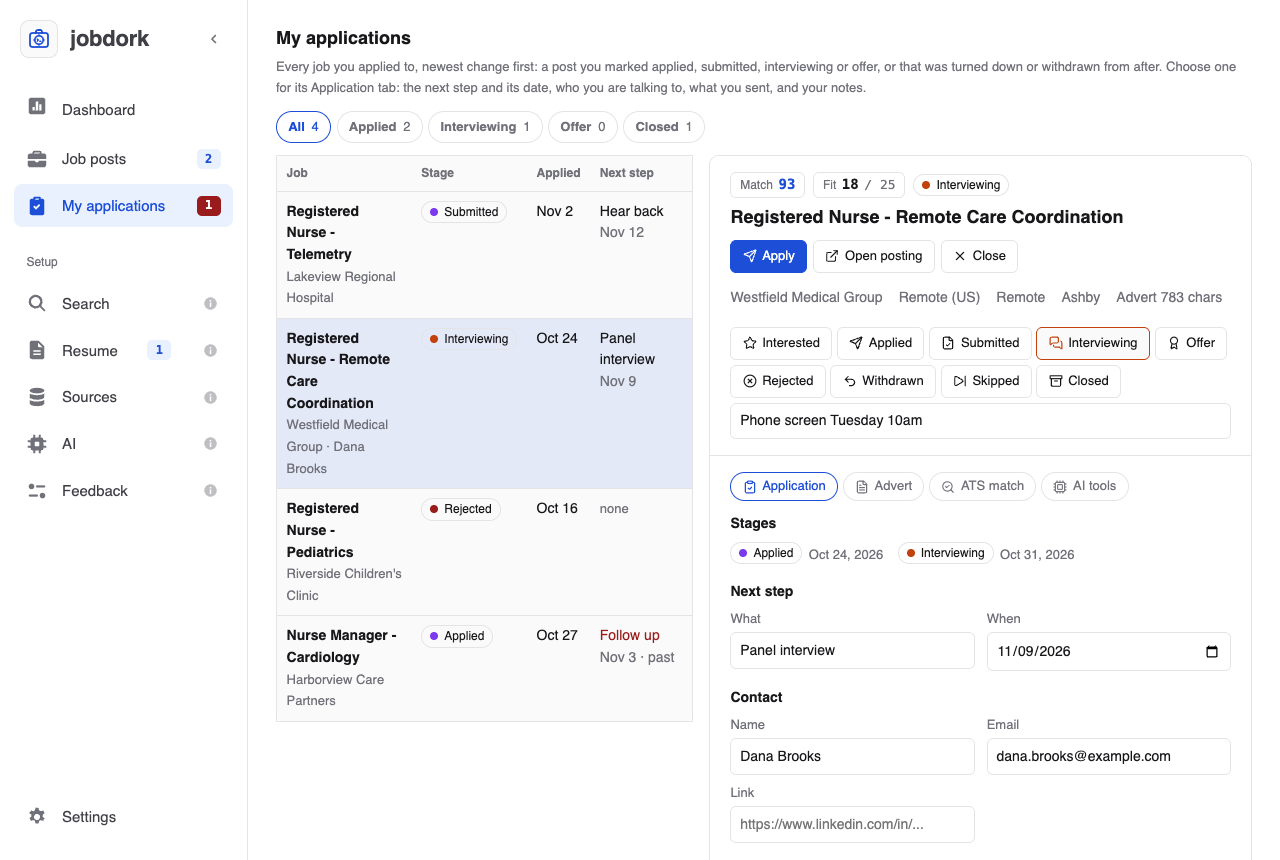
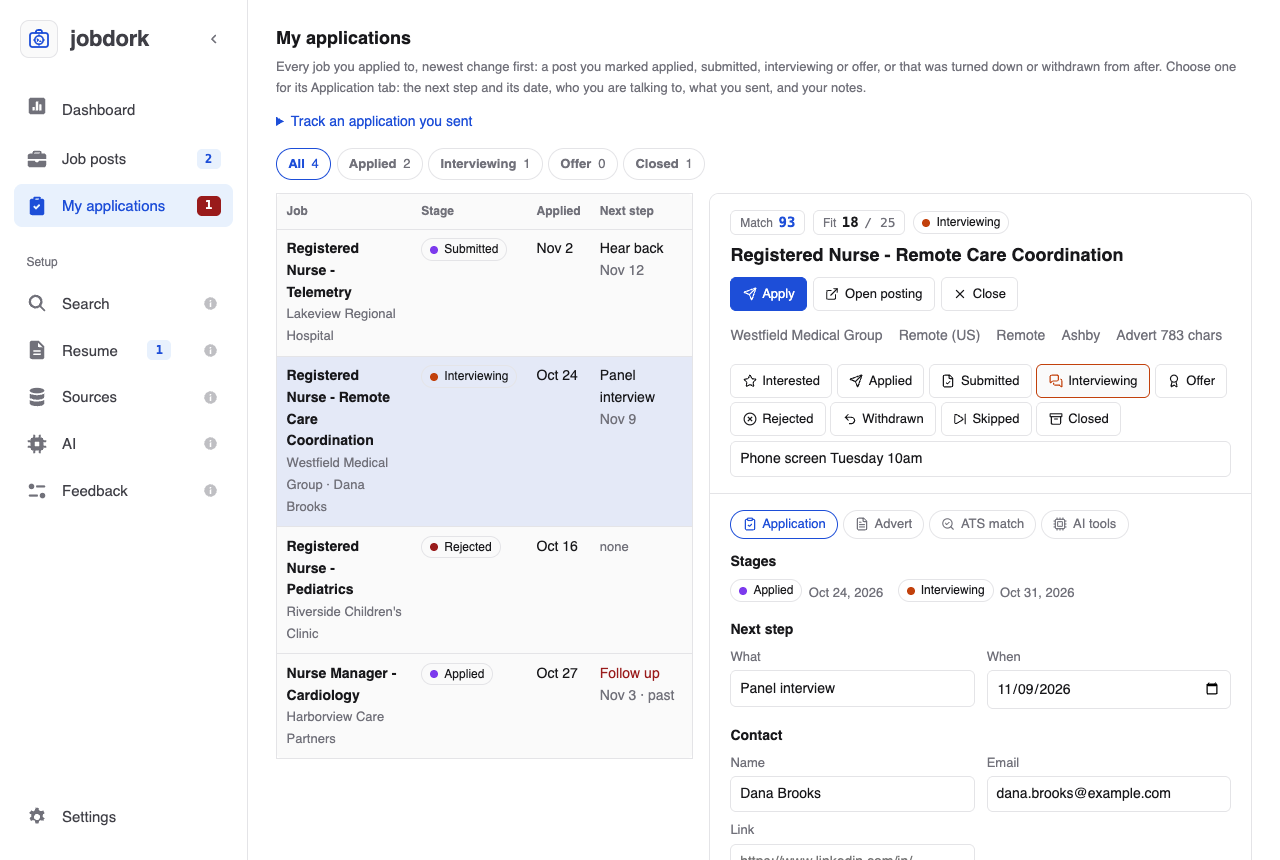
feat: track an application you sent, from its link (see docs/changes/track-from-link.md)

diff --git a/jobdork/data/dashboard.html b/jobdork/data/dashboard.html
@@ -1043,6 +1043,32 @@ main > #view-setup.welcome{max-width:46rem;margin-top:3.5rem}
       you marked applied, submitted, interviewing or offer, or that was turned down or withdrawn
       from after. Choose one for its Application tab: the next step and its date, who you are
       talking to, what you sent, and your notes.</p>
+    <details class="paste" id="track">
+      <summary>Track an application you sent</summary>
+      <p class="hint">Applied somewhere jobdork did not find? Give the job post's link: it is
+        read into Job posts and listed here as applied, dated the day you applied.</p>
+      <form id="track-form">
+        <div class="bar">
+          <input id="tr-url" type="url" required placeholder="The job post's link" aria-label="The job post's link"
+            style="flex:1;min-width:16rem">
+          <label class="hint" for="tr-date">Applied on</label>
+          <input id="tr-date" type="date" aria-label="The day you applied">
+          <button data-icon="clipboard-check" class="act primary" type="submit" id="btn-track">Track it</button>
+        </div>
+        <div id="tr-more" hidden>
+          <p class="hint">jobdork could not read that page. Give the job title and employer to track
+            it anyway; paste the advert too and it is scored like any other post.</p>
+          <div class="picker">
+            <label>Job title<input id="tr-title"></label>
+            <label>Employer<input id="tr-company"></label>
+            <label>Place<input id="tr-place" placeholder="e.g. Austin, TX, or Remote"></label>
+          </div>
+          <label>The advert (optional)<textarea id="tr-text" rows="6" style="width:100%"
+            placeholder="Everything the post says: duties, requirements, pay"></textarea></label>
+        </div>
+        <div id="tr-msg" role="status"></div>
+      </form>
+    </details>
     <div class="appchips" id="app-chips"></div>
     <div class="split">
       <div id="apps"><p class="empty">Loading…</p></div>
@@ -6156,6 +6182,44 @@ async function loadApps() {
   if (!$('view-apps').hidden) drawApps();
 }
 
+// Track an application sent outside jobdork: its link (or, for a page that
+// cannot be read, its title and employer, and the advert if you have it).
+function trackReset() {
+  $('track-form').reset();
+  $('tr-date').value = new Date().toLocaleDateString('en-CA');   // today, as YYYY-MM-DD
+  $('tr-date').max = $('tr-date').value;
+  $('tr-more').hidden = true;
+}
+trackReset();
+$('track-form').onsubmit = async ev => {
+  ev.preventDefault();
+  const btn = $('btn-track'), msg = $('tr-msg'), more = !$('tr-more').hidden;
+  btn.disabled = true;
+  msg.innerHTML = `<span class="hint">${more ? 'Saving…' : 'Reading the link…'}</span>`;
+  const body = {url: $('tr-url').value, applied_on: $('tr-date').value};
+  if (more) Object.assign(body, {title: $('tr-title').value, company: $('tr-company').value,
+                                 location: $('tr-place').value, text: $('tr-text').value});
+  const r = await api('/api/application/track', {method: 'POST', body: form(body)});
+  btn.disabled = false;
+  if (!r.ok) {
+    const why = cap(await r.text());
+    if (r.status === 422 && !more) {
+      $('tr-more').hidden = false;
+      msg.innerHTML = '';
+      $('tr-title').focus();
+    } else msg.innerHTML = `<span class="err">${esc(why)}</span>`;
+    return;
+  }
+  const d = await r.json();
+  trackReset();
+  msg.innerHTML = d.tracked
+    ? `<span class="saved">Tracked</span> ${esc(d.title)} at ${esc(d.company)}, applied ${esc(shortDay(d.applied_on))}.`
+    : `<span class="saved">Already tracked</span> ${esc(d.title)} at ${esc(d.company)} is at ${esc(d.status)}; left as it is.`;
+  await loadApps();
+  drawApps();
+  loadRoles();
+};
+
 function drawApps() {
   const all = apps ? apps.applications : [];
   $('app-chips').innerHTML = APP_STAGES.map(([k, label]) => `<button type="button" data-stage="${k}"
@@ -6171,7 +6235,7 @@ function drawApps() {
       <td class="${a.overdue ? 'late' : ''}">${a.next_step || a.next_date ? `${esc(a.next_step)}${a.next_date
         ? ` <span class="when">${esc(shortDay(a.next_date))}${a.overdue ? ' · past' : ''}</span>` : ''}` : '<span class="hint">none</span>'}</td>
       </tr>`).join('')}</tbody></table>`
-    : `<p class="empty">${all.length ? 'None at this stage.' : 'No applications yet. Mark a job post applied (its Apply button does) and it is listed here.'}</p>`;
+    : `<p class="empty">${all.length ? 'None at this stage.' : 'No applications yet. Mark a job post applied (its Apply button does), or track one you sent above, and it is listed here.'}</p>`;
   soloList(!shown.length, $('apps'));
   $('apps').querySelectorAll('tr[data-uid]').forEach(tr => {
     tr.onclick = () => openRole(tr.dataset.uid, 'application');

diff --git a/tests/test_applications.py b/tests/test_applications.py
@@ -165,6 +165,109 @@ def test_deleting_a_job_post_deletes_its_application():
 
 # ── keep this block LAST ───────────────────────────────────────────────────────
 
+# ── tracking an application sent outside jobdork ─────────────────────────────
+
+def _track_cfg(tmp: str):
+    from jobdork.core.config import Config, Locations
+    cfg = Config(titles_include=["nurse"], locations=Locations(countries=["US"]))
+    cfg.db_path = str(Path(tmp) / "t.db")
+    return cfg
+
+
+ADVERT = "Care for patients on a 30-bed unit. Required: an RN licence. " * 6
+
+
+def _refused(fn, said: str, status: int = 400):
+    try:
+        fn()
+    except api.ApiError as exc:
+        assert said in str(exc) and exc.status == status, (exc, exc.status)
+    else:
+        raise AssertionError(f"must be refused: {said}")
+
+
+def test_an_application_tracked_from_a_pasted_advert_is_applied_on_its_day():
+    with tempfile.TemporaryDirectory() as tmp:
+        cfg = _track_cfg(tmp)
+        done = api.track_application(cfg, {"url": "https://a.test/1", "title": "Charge Nurse",
+                                           "company": "Acme", "text": ADVERT,
+                                           "applied_on": "2026-10-20"})
+        assert done["tracked"] and done["status"] == "applied" and done["applied_on"] == "2026-10-20"
+        listed = api.list_applications(cfg)["applications"]
+        assert [(a["uid"], a["applied_at"]) for a in listed] == [(done["uid"], "2026-10-20")]
+        with Store(cfg.db_path) as store:
+            assert [h["status"] for h in store.history(done["uid"])] == ["applied"]
+
+
+def test_a_page_that_cannot_be_read_is_tracked_from_its_title_and_employer():
+    with tempfile.TemporaryDirectory() as tmp:
+        cfg = _track_cfg(tmp)
+        # lambda: deferred, so _refused can catch what the call raises
+        _refused(lambda: api.track_application(cfg, {"url": "https://a.test/2", "title": "Nurse"}),
+                 "employer")
+        # lambda: deferred, so _refused can catch what the call raises
+        _refused(lambda: api.track_application(cfg, {"url": "not a link", "title": "Nurse",
+                                                     "company": "Acme"}), "link")
+        done = api.track_application(cfg, {"url": "https://a.test/2", "title": "Nurse",
+                                           "company": "Acme", "location": "Austin, TX"})
+        assert done["tracked"]
+        with Store(cfg.db_path) as store:
+            row = store.get(done["uid"])
+        assert row["status"] == "applied" and row["company"] == "Acme"
+        # Today, when no day is given.
+        assert done["applied_on"] == datetime.date.today().isoformat()
+
+
+def test_the_day_applied_is_a_real_day_not_in_the_future():
+    with tempfile.TemporaryDirectory() as tmp:
+        cfg = _track_cfg(tmp)
+        base = {"url": "https://a.test/3", "title": "Nurse", "company": "Acme"}
+        tomorrow = (datetime.date.today() + datetime.timedelta(days=1)).isoformat()
+        # lambda: deferred, so _refused can catch what the call raises
+        _refused(lambda: api.track_application(cfg, {**base, "applied_on": tomorrow}), "future")
+        # lambda: deferred, so _refused can catch what the call raises
+        _refused(lambda: api.track_application(cfg, {**base, "applied_on": "20/10/2026"}), "YYYY-MM-DD")
+        # lambda: deferred, so _refused can catch what the call raises
+        _refused(lambda: api.track_application(cfg, {**base, "applied_on": "2026-02-30"}), "real date")
+        with Store(cfg.db_path) as store:
+            assert store.applications() == [], "nothing is stored when the day is refused"
+
+
+def test_tracking_a_job_already_further_along_leaves_it_there():
+    with tempfile.TemporaryDirectory() as tmp:
+        cfg = _track_cfg(tmp)
+        base = {"url": "https://a.test/4", "title": "Nurse", "company": "Acme"}
+        first = api.track_application(cfg, base)
+        with Store(cfg.db_path) as store:
+            store.set_status(first["uid"], "interviewing")
+        again = api.track_application(cfg, {**base, "applied_on": "2026-01-02"})
+        assert again["uid"] == first["uid"] and not again["tracked"]
+        assert again["status"] == "interviewing"
+
+
+def test_tracking_from_a_link_reads_it_and_a_page_it_cannot_read_asks_for_more():
+    from jobdork.fetch import link
+    with tempfile.TemporaryDirectory() as tmp:
+        cfg = _track_cfg(tmp)
+        real = link.read
+        try:
+            def read(fetcher, cfg_, url, token="", company=""):
+                return Role(platform="greenhouse", company="Acme", title="ICU Nurse", url=url,
+                            location_raw="Austin, TX", description=ADVERT)
+            link.read = read
+            done = api.track_application(cfg, {"url": "https://boards.greenhouse.io/acme/jobs/9"})
+            assert done["tracked"] and done["title"] == "ICU Nurse"
+
+            def unreadable(*args, **kwargs):
+                raise link.LinkError("that page has no job post jobdork can read")
+            link.read = unreadable
+            # lambda: deferred, so _refused can catch what the call raises
+            _refused(lambda: api.track_application(cfg, {"url": "https://a.test/5"}),
+                     "Paste the advert", 422)
+        finally:
+            link.read = real
+
+
 if __name__ == "__main__":
     failures = 0
     tests = [(name, fn) for name, fn in sorted(globals().items())

diff --git a/jobdork/web/api.py b/jobdork/web/api.py
@@ -1187,6 +1187,61 @@ def add_by_text(cfg, url: str, title: str, company: str, location: str,
     return _store_added(cfg, role)
 
 
+# Statuses past "applied": tracking an application leaves these as they are.
+FURTHER_THAN_APPLIED = ("interviewing", "offer")
+
+
+def track_application(cfg, form: dict) -> dict:
+    """A job you applied to outside jobdork, tracked from its link: the post
+    is added (read from the link, from its pasted advert, or with only its
+    title and employer when you have neither) and marked applied, dated the
+    day you applied. Listed on My applications from then on."""
+    import datetime
+
+    from ..db.store import Role, Store, canonical_url
+
+    def get(key: str) -> str:
+        return str(form.get(key) or "").strip()
+
+    url, text, title = get("url"), get("text"), get("title")
+    today = datetime.date.today()
+    applied = get("applied_on") or today.isoformat()
+    if not DATE.match(applied):
+        raise ApiError("the date you applied is written as YYYY-MM-DD")
+    try:
+        day = datetime.date.fromisoformat(applied)
+    except ValueError as exc:
+        raise ApiError("the date you applied is not a real date") from exc
+    if day > today:
+        raise ApiError("the date you applied is in the future")
+    if text:
+        added = add_by_text(cfg, url, title, get("company"), get("location"), text)
+    elif title:
+        # No advert: tracked all the same, scored against nothing.
+        link = canonical_url(url)
+        if not link.startswith(("http://", "https://")):
+            raise ApiError("give the job post's link too, so you can open it again")
+        if not get("company"):
+            raise ApiError("give the employer, so you can tell it from the others")
+        role = Role(platform="site", company=get("company"), title=title, url=link,
+                    location_raw=get("location"), description="")
+        role.flags.append("tracked without its advert")
+        added = _store_added(cfg, role)
+    else:
+        added = add_by_url(cfg, url, get("token"))
+    with Store(cfg.db_path) as store:
+        row = store.get(added["uid"])
+        status = (row["status"] if row else "") or "new"
+        if status in FURTHER_THAN_APPLIED:
+            added.update(status=status, tracked=False)
+        else:
+            store.set_status(added["uid"], "applied", "tracked from its link",
+                             when=f"{applied}T12:00:00")
+            added.update(status="applied", tracked=True)
+    added["applied_on"] = applied
+    return added
+
+
 def _store_added(cfg, wanted) -> dict:
     from ..db.store import Store
     from ..search import screen

diff --git a/jobdork/db/store.py b/jobdork/db/store.py
@@ -836,11 +836,14 @@ class Store:
 
     # ── state ──────────────────────────────────────────────────────────────────
 
-    def set_status(self, uid: str, status: str, note: str = "", by: str = "") -> None:
+    def set_status(self, uid: str, status: str, note: str = "", by: str = "",
+                   when: str = "") -> None:
         """Record a decision — for every copy of the job, not just this one.
 
         A decision about a job is about the job. Set on one copy only, it was
         lost the moment another copy became the one shown (see grouping.py).
+        `when` dates the change in its history, for one made before it was
+        recorded here (an application tracked after you sent it); now if empty.
         """
         if status not in STATUSES:
             raise ValueError(
@@ -856,7 +859,7 @@ class Store:
             members).fetchall())
         self.conn.executemany(
             "INSERT INTO status_history(uid, status, at, by) VALUES(?,?,?,?)",
-            [(m, status, now, by) for m in members
+            [(m, status, when or now, by) for m in members
              if was.get(m, "new") != status and status not in ("new", "viewed")])
         self.conn.executemany(
             "INSERT INTO role_state(uid, status, note, updated_at) VALUES(?,?,?,?) "

diff --git a/jobdork/web/serve.py b/jobdork/web/serve.py
@@ -702,6 +702,12 @@ def make_handler(cfg_holder: dict, session: Session, runner: Runner, desk=None):
                     done["rescore"] = ("Re-scoring your job posts with it." if now else
                                        f"Your job posts are re-scored with it after {runner.current}.")
                 return self._json(200, done)
+            if path == "/api/application/track":
+                # Sized for a pasted advert, as /api/add/text is.
+                form = self._body(limit=api_mod.MAX_ADVERT_CHARS * 12)
+                if form is None:
+                    return self._reject(400, "bad request body")
+                return self._wrap(api_mod.track_application, cfg_holder["cfg"], form)
             if path in ("/api/application", "/api/application/note"):
                 form = self._body()
                 if form is None:

diff --git a/docs/changes/track-from-link.md b/docs/changes/track-from-link.md
@@ -1,0 +1,24 @@
+## Added — 2026-11-05 — Track an application you sent, from its link
+
+My applications listed only job posts jobdork had found and you marked
+applied. A job you applied to somewhere else, or before you used jobdork,
+could be brought in only by adding it on the Sources page and then marking
+it applied, dated the day you did that rather than the day you applied.
+
+**Track an application you sent**, at the top of My applications, takes the
+job post's link and the day you applied (today unless you change it; a day
+still to come is refused). The post is read into Job posts as **Add a Job
+Post** does, marked *applied*, dated that day in its stages, and listed. When
+the page cannot be read, the form asks for the job title and employer
+(and the place, and the advert if you have it): with the advert the post is
+scored like any other; without it, it is tracked with nothing to score
+against. A job already at *interviewing* or *offer* is left there, and a post
+jobdork already had is not added twice.
+
+`api.track_application` and `POST /api/application/track` do it;
+`Store.set_status` takes the day a change was made (`when`) for its history.
+The guide's My applications page explains it. Tests cover tracking from a
+pasted advert (applied on its day, listed), from a title and employer alone
+(each asked for), the day (real, `YYYY-MM-DD`, not in the future, nothing
+stored when refused), a job further along left as it is, and a link read or
+not readable (asking for more).

diff --git a/guide/docs/applications.md b/guide/docs/applications.md
@@ -8,6 +8,24 @@ on [Job posts](job-posts.md).
 
 ![My applications](images/applications.png)
 
+## Track an application you sent
+
+Applied somewhere jobdork did not find, or before you used it? Open
+**Track an application you sent** at the top, paste the job post's link,
+set **Applied on** (today, unless you change it; not a day still to come)
+and press **Track it**. jobdork reads the post into [Job posts](job-posts.md),
+as **Add a Job Post** on the [Sources](sources.md#add-a-job-post) page does,
+marks it *applied*, dated the day you gave, and lists it here.
+
+When the page cannot be read (a sign-in page, or one that publishes nothing
+for search engines), more fields open: give the **Job title** and
+**Employer**, and the **Place** if you like, then **Track it** again. Paste
+the advert too and the post is scored like any other; without it, it is
+tracked all the same, with nothing to score against.
+
+A job you already moved on to *interviewing* or *offer* is left there; a
+post jobdork already had is not added twice.
+
 ## The list
 
 The chips at the top narrow it to one stage, with how many are at each:
